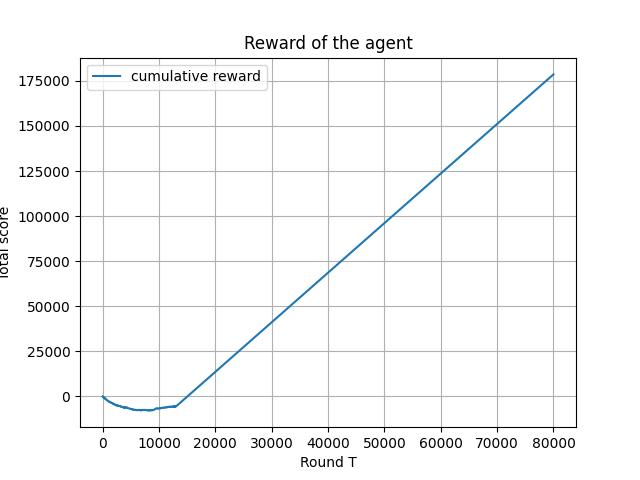
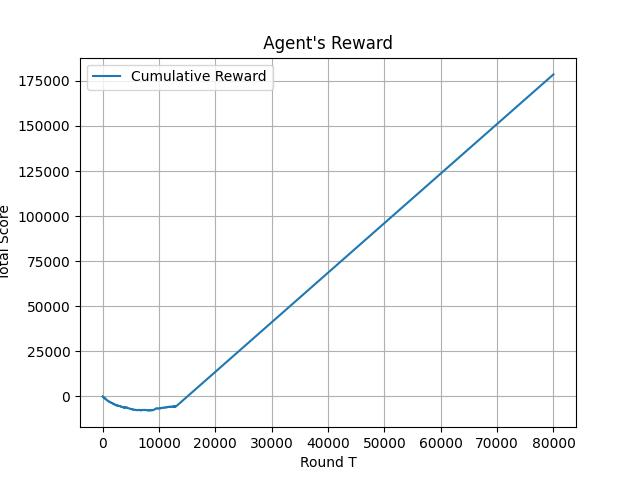
commit before disaster (all in )

Changed region(s): [[0.2188, 0.0625, 0.6562, 0.1875], [0.0, 0.4375, 0.0312, 0.5]]

diff --git a/project/main.py b/project/main.py
@@ -1,6 +1,6 @@
 
 from agent import Agent
-from implemented_agents import PolicyIterationAgent, Random_Agent, Threshold_Agent, Q_Learning_Agent
+from implemented_agents import PolicyIterationAgent, Random_Agent, Threshold_Agent, Q_Learning_Agent, Human_Agent
 import utils
 from env import Env
 import numpy as np
@@ -22,9 +22,13 @@ def play_a_game(env: Env, agent: Agent, opponent:Agent, threshold=False, t = Non
 
     while True: #play as many hands until one player bankrupts
         state, *_ = env.reset()
-        if(isinstance(opponent, Threshold_Agent)): opponent.set_hand(env.game.hand_of_player[1])
+        if(isinstance(opponent, Human_Agent)): 
+            print("---------------------New Hand--------------------")
+            print(f"Human_agent's total money{env.game.total_money_per_player[1]}")
+            print(f"Q_learning_agent's total money{env.game.total_money_per_player[0]}")
+        if(not isinstance(opponent, Random_Agent)): opponent.set_hand(env.game.hand_of_player[1])
         games += 1
-        if state == -1: return total_reward#means that the game has ended
+        if state == -1: return total_reward #means that the game has ended
         state = utils.convert_pre_flop_state_to_num(state[0:5]) if not threshold else utils.threshold_convert_state_to_num(state)
         preflop_state = state
         done = False
@@ -34,21 +38,18 @@ def play_a_game(env: Env, agent: Agent, opponent:Agent, threshold=False, t = Non
         action = None
         reward = 0
         done = False
-        
-        
         round = 1
         while not done: #playing one hand
             #rememmber that state, reward an done are referring only in the agent
             round = (round + 1 )%2
-            if (isinstance(opponent, Threshold_Agent)): 
+            if (not isinstance(opponent, Random_Agent)): #instance of human or threshold agent
                 opponent.set_round(round)
                 opponent.set_table(env.game.table)
-
             previous_tuple = [prev_state, action, reward, state, done]
             if mana == 0: #if our agent is the mana
                 prev_state = state
                 action = agent.send_action(state, t) if isinstance(agent, Q_Learning_Agent) else agent.send_action(state, None, None)
-                
+                if (isinstance(opponent, Human_Agent)): print(f"q learning agent's action is {action}")
                 state, reward, done=env.step(action, 0, t, previous_tuple, threshold=threshold, agent=agent)
                 
                 state = utils.return_state(state, threshold, agent,preflop_state)
@@ -69,6 +70,7 @@ def play_a_game(env: Env, agent: Agent, opponent:Agent, threshold=False, t = Non
                 total_reward += reward 
                 if done: break
                 action = agent.send_action(state, t) if isinstance(agent, Q_Learning_Agent) else agent.send_action(state, None, None)
+                if (isinstance(opponent, Human_Agent)): print(f"q learning agent's action is {action}")
                 state, reward, done=env.step(action, 0, t, previous_tuple, threshold=threshold, agent=agent)
                 state = utils.return_state(state, threshold, agent,preflop_state)
                 if isinstance(agent, Q_Learning_Agent):
@@ -83,54 +85,88 @@ def play_a_game(env: Env, agent: Agent, opponent:Agent, threshold=False, t = Non
                 state = utils.return_state(state, threshold, agent,preflop_state)
 
 
-if __name__ == "__main__":
 
-
-    threshold = True
-    q_learning = False
+def training_main(threshold, q_learning):
+    threshold = threshold
+    q_learning = q_learning
     p = utils.P_THRESHOLD if threshold else utils.P
     seed = 15
     np.random.seed(seed)
     agent = Q_Learning_Agent(#state_size=2**10 if not threshold else 2**10, 
-                             state_size=20 if not threshold else 33, 
-                             action_size= 3,
-                             a=.4 if threshold else .28,#.12
-                             gamma=.9,
-                             threshold=threshold,
-                             ante= True) if q_learning else \
-                             PolicyIterationAgent(P=p)
-    opponent = Threshold_Agent() if threshold else Random_Agent(seed = seed)
-    
+                                state_size=20 if not threshold else 33, 
+                                action_size= 3,
+                                a=.4 if threshold else .28,#.12
+                                gamma=.9,
+                                threshold=threshold,
+                                ante= True,
+                                against_human = False) if q_learning else \
+                                PolicyIterationAgent(P=p)
+    opponent = Threshold_Agent() if threshold else Random_Agent(seed = seed) 
+
     horizon = 80_000 if threshold else  25_000
     horizon = 10_000 if not q_learning else horizon
     
     env = Env(agent, opponent, number_of_cards=5, seed=np.random.randint(low=1, high = horizon))
-    
-    
     r = np.zeros(horizon)
     reward = np.zeros(horizon)
     dt = .000001
     for t in tqdm(range(horizon), desc="Processing items", unit="item"):
+
         reward[t] = play_a_game(env,agent,opponent, threshold=threshold, t=t+dt if t == 0 else t)
         r[t] = reward[t]+r[t-1]*(t>0)
-        s = np.random.randint(low=1, high = horizon)
+        s = np.random.randint(low = 1, high = horizon)
         env = Env(agent, opponent, number_of_cards=5, seed=s)
     
-    print(f"mean of the total reward (for the last 1000 iterations) is {np.mean(reward[-1:-1000:-1])}")
+    print(f"Total reward mean for the last 1000 iterations is {np.mean(reward[-1:-1000:-1])}")
     if not q_learning:
         decisions = list([agent.pi(i) for i in range(33 if threshold else 20)])
         np.savetxt(f"./data/q_learning_{ q_learning}_threshold_{threshold}.csv", decisions)
     else:
         decisions = list([np.argmax(agent.Q[i,:]) for i in range(33 if threshold else 20)])
         np.savetxt(f"./data/q_learning_{ q_learning}_threshold_{threshold}.csv", decisions)
+        np.savetxt("./data/q_agent.csv", agent.Q, delimiter = ',')
 
+    
     plt.figure(1)
-    plt.title(f"Reward of the agent") 
+    plt.title(f" Agent's Reward ") 
     plt.xlabel("Round T") 
-    plt.ylabel("Total score") 
-    plt.plot(np.arange(1,horizon+1),r, label="cumulative reward")   
+    plt.ylabel("Total Score") 
+    plt.plot(np.arange(1,horizon+1),r, label="Cumulative Reward")   
     plt.grid()
     plt.legend()
     plt.savefig(f'images/q_learning_{ q_learning}_threshold_{threshold}.jpg')
 
     plt.show()
+
+
+def testing_main():
+    
+    horizon = 2
+    q = np.loadtxt("./data/q_agent.csv", delimiter=",",dtype = float)
+    agent = Q_Learning_Agent(state_size = 33, action_size = 2, Q = q, against_human=True )
+    opponent = Human_Agent(action_size=2)
+    env = Env(agent, opponent, number_of_cards=5, seed=np.random.randint(low=1, high = horizon))
+    r = np.zeros(horizon)
+    reward = np.zeros(horizon)
+    dt = .000001
+    for t in tqdm(range(horizon), desc= "Processing items", unit = "item"):
+        
+        reward[t] = play_a_game(env,agent,opponent, threshold=threshold, t=t+dt if t == 0 else t)
+        r[t] = reward[t]+r[t-1]*(t>0)
+        s = np.random.randint(low = 1, high = horizon)
+        env = Env(agent, opponent, number_of_cards=5, seed=s)
+    
+
+
+    
+
+
+
+
+if __name__ == "__main__":
+
+    q_learning = True
+    threshold = True
+    train = False
+    if(train):training_main(threshold = threshold, q_learning = q_learning)
+    else: testing_main()

diff --git a/project/implemented_agents.py b/project/implemented_agents.py
@@ -67,18 +67,22 @@ class PolicyIterationAgent(Agent):
 
 class Q_Learning_Agent(Agent):
 
-    def __init__(self, state_size, action_size, a = .2, gamma = 1.0, seed = 0, threshold = False, ante = False):
+    def __init__(self, state_size, action_size, a = .2, gamma = 1.0, seed = 0, threshold = False, ante = False, Q=None, eps=1, against_human = False):
         np.random.seed(seed=seed)
         self.state_size = state_size
         self.action_size = action_size
         self.gamma = gamma
         self.a = a
-        self.Q = np.random.rand(self.state_size, self.action_size)
+
+        if Q is not None:self.Q = Q
+        else: self.Q = np.random.rand(self.state_size, self.action_size)
+
         self.conv = 0
-        self.eps = 1
+        self.eps = eps
         self.disp = True
         self.threshold = threshold
         self.ante=ante
+        self.against_human  = against_human
 
     def train(self, tuple):
         #and now the training section, based on the previous tuple (knowledge)
@@ -91,10 +95,12 @@ class Q_Learning_Agent(Agent):
 
     def send_action(self, state, t):
         k = self.action_size
-        if not self.threshold:
+        if (not self.threshold) and (not self.against_human): #plays ganst random
             self.eps =(1/((t)**(1/3)))*((k*np.log(t))**(1/3)) if t > 2 else 1 
-        else:
+        elif self.threshold: #plays against threshold
             self.eps = max(0.9999749*self.eps, .01)
+        else: #against human
+            self.eps = .01
         if not self.ante:
             self.eps =  max(0.9999997*self.eps, .01) #exploration without ante
         
@@ -128,18 +134,7 @@ class Random_Agent(Agent):
 
 
 class Threshold_Agent(Agent):
-    '''
-    0 : A pre flop     4 : K pre flop   8 : Q pre flop   12 : J pre flop  16 : 10 pre flop   
-    1 : A -A*          5 : K -K*        9 : Q - Q*       13 : J - J*      17 : 10 -10*
-    2 : A - AA         6 : K-KK         10 : Q-QQ        14 : J - JJ      18 : 10 -10 10
-    3 : A - **         7 : K - **       11 : Q - **      15 : J - **      19 : 10 - **
-
-    ---------------  ---------------  ---------------  ---------------  -------------------
-    -----------actions----------
-    0: check
-    1: fold
-    2: raise
-    '''
+  
     def set_hand(self, hand):
         self.hand = hand
     def set_table(self, table):
@@ -161,3 +156,43 @@ class Threshold_Agent(Agent):
         for card in self.table:
             if card.rank == self.hand.rank: return 2
         return 0
+    
+
+class Human_Agent(Agent):
+
+
+    def __init__(self, action_size, threshold = False, ante = False):
+        self.action_size = action_size
+        self.disp = True
+        self.threshold = threshold
+        self.ante=ante
+
+    def set_hand(self, hand):
+        self.hand = hand
+        
+
+    def set_table(self, table):
+        self.table = table
+
+    def set_round(self, round):
+        self.round = round   
+
+    def interface_display(self):
+        print(f"My current hand is : {self.hand}")
+        if not( self.table[0].rank == '-1'): 
+            print(f"The table has :{self.table[0].rank} , {self.table[1].rank}")
+        print(f"We are playing round number {self.round} of the game")
+       
+    def send_action(self, state, useless_1, useless_2):
+        # Implement the logic to receive the action from the human player
+        # Return the selected action
+        self.interface_display()
+        valid_actions = [0, 1, 2]
+        while True:
+            action = input("Enter your action : Press 0 to 'check' or 'call', 1 to 'fold' and 2 to 'raise': ")
+            if action.isdigit() and int(action) in valid_actions:
+                
+                return int(action)
+            else:
+                print("Invalid input. Please enter a valid action.")
+

diff --git a/project/card.py b/project/card.py
@@ -41,7 +41,7 @@ class Card:
         Returns:
             string: the combination of rank and suit of a card. Eg: AS, 5H, JD, 3C, ...
         '''
-        return self.rank + self.suit
+        return self.rank
 
     def get_index(self):
         ''' Get index of a card.
